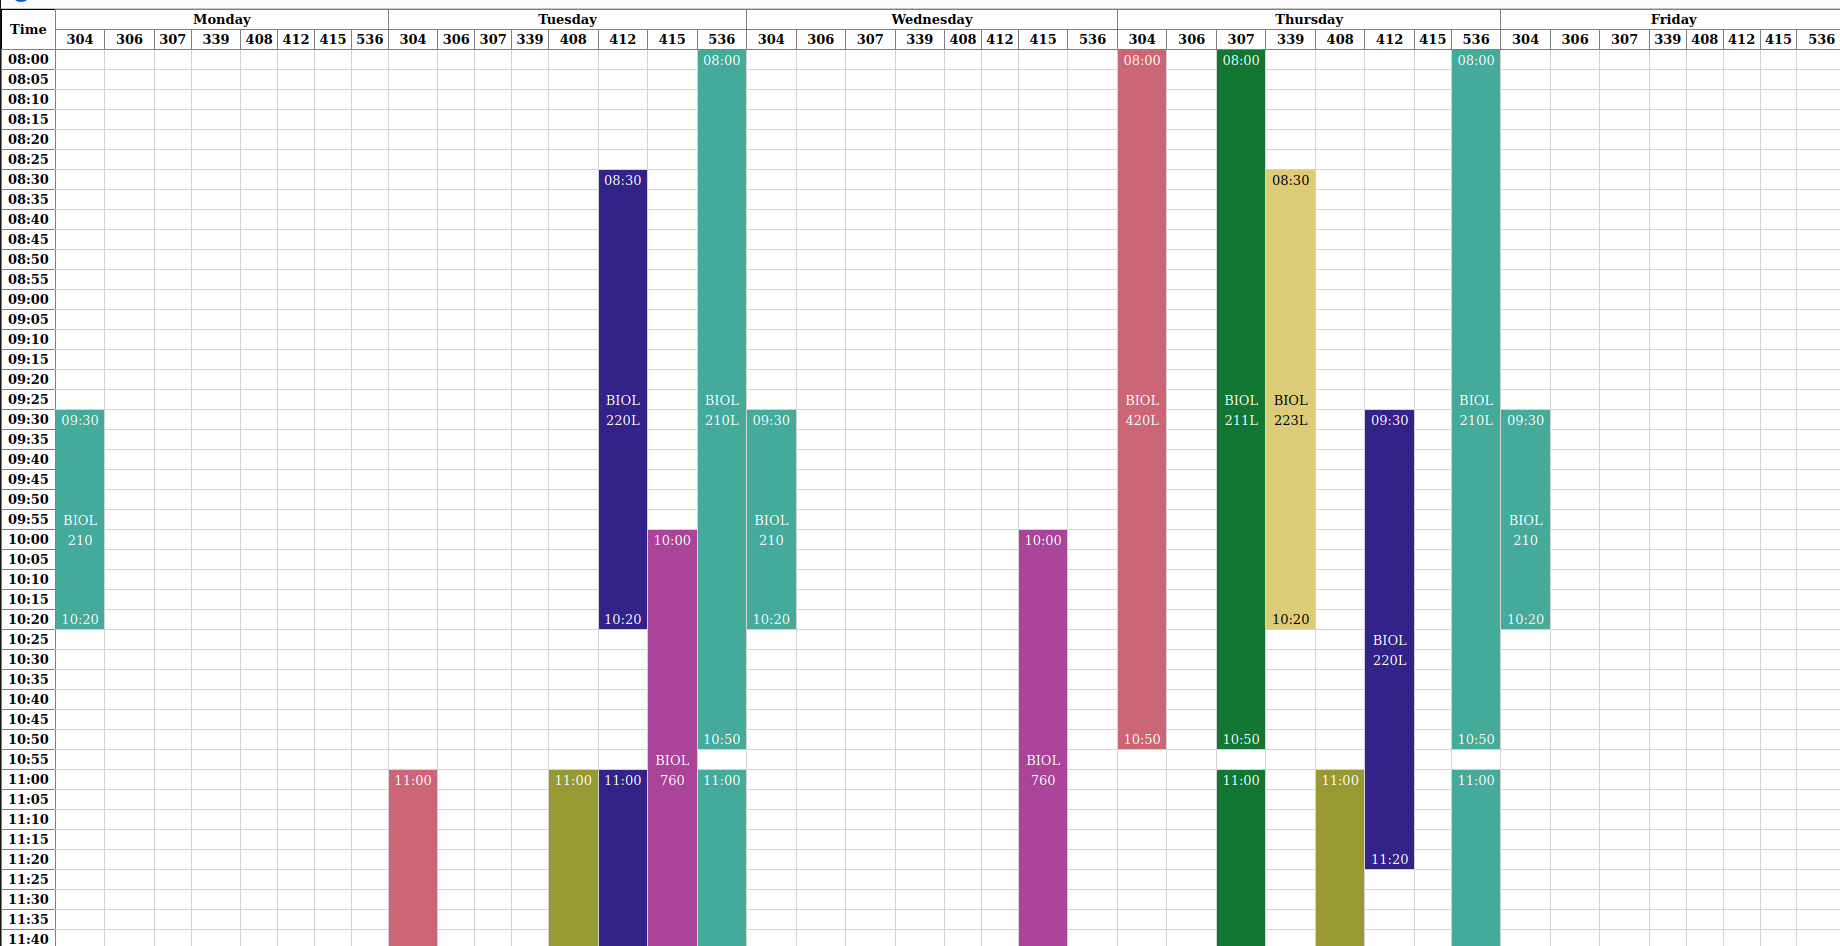
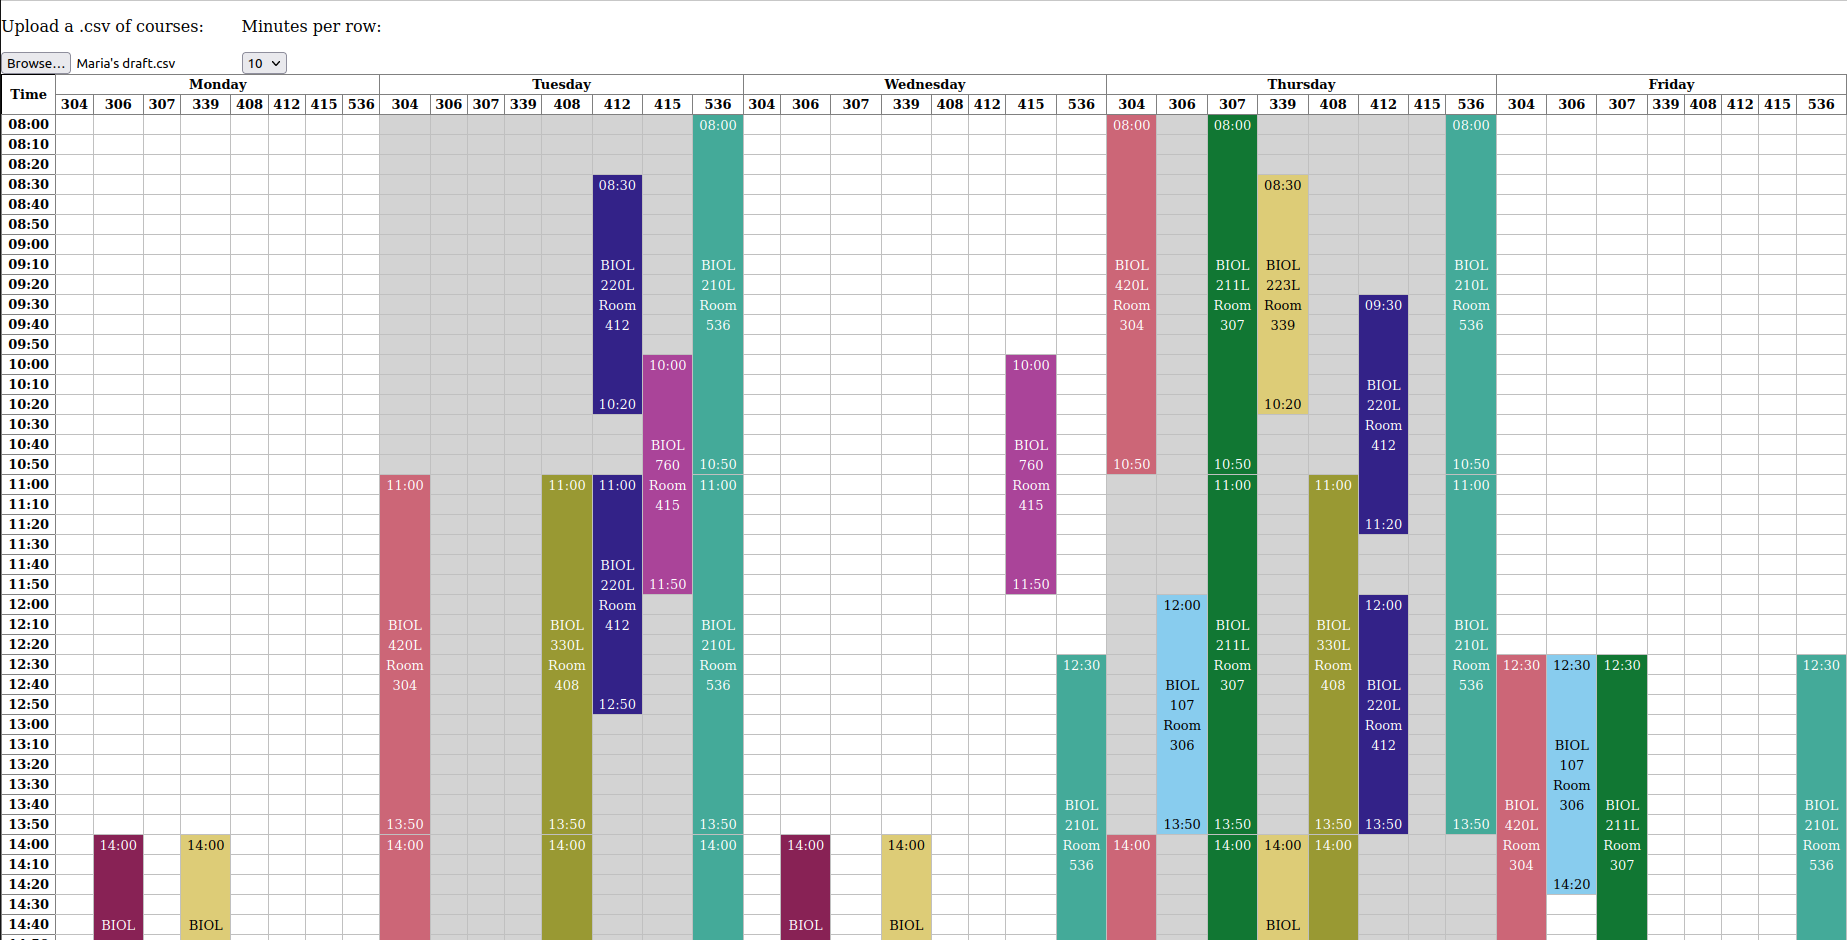
feat: Dropdown to change minutes per row

diff --git a/index.js b/index.js
@@ -2,6 +2,8 @@ const COLORS = ['#88CCEE', '#44AA99', '#117733', '#332288', '#DDCC77', '#999933'
 const WEEKDAYS = "MTWRF".split("");
 const WEEKDAY_LABELS = ["Monday", "Tuesday", "Wednesday", "Thursday", "Friday"]
 
+var MINUTES_PER_ROW = 10;
+
 const handleFileUpload = (event) => {
   if (event.target.files.length > 1) {
     alert("Only one file upload allowed at a time.");
@@ -21,6 +23,24 @@ const handleFileUpload = (event) => {
 
 document.getElementById('fileinput').addEventListener('change', handleFileUpload);
 
+const handleMinsPerRowChange = () => {
+  MINUTES_PER_ROW = parseInt(document.getElementById("minsPerRowSelect").value);
+
+  const uploadedFiles = document.getElementById("fileinput").files;
+  if (uploadedFiles.length < 1) {
+    return;
+  }
+
+  const file = uploadedFiles[0];
+  if (!file) {
+    return;
+  }
+
+  const reader = new FileReader();
+  reader.onload = parseAndRenderFile;
+  reader.readAsText(file);
+}
+
 const parseAndRenderFile = (event) => {
   const contents = event.target.result;
   const lines = contents.split("\n");
@@ -37,9 +57,6 @@ const parseAndRenderFile = (event) => {
   const calendarHtml = renderCalendarHtml(cleanData);
   const root = document.getElementById("root");
   root.innerHTML = calendarHtml;
-
-  // Remove the file upload input.
-  document.getElementById("fileinput").outerHTML = "";
 };
 
 const renderCalendarHtml = (data) => {
@@ -115,10 +132,9 @@ const getCellContents = (data, rooms) => {
 
   // One col for time, then for each room on each weekday.
   const numCols = 1 + WEEKDAYS.length * rooms.length;
-  const minutesPerRow = 5;
-  const numRows = (maxHour - minHour) * 60 / minutesPerRow;
+  const numRows = (maxHour - minHour) * 60 / MINUTES_PER_ROW;
   const timeForRow = (rowNum) => {
-    const t = minHour * 60 + rowNum * minutesPerRow;
+    const t = minHour * 60 + rowNum * MINUTES_PER_ROW;
     const h = String(parseInt(t / 60)).padStart(2, "0");
     const m = String(parseInt(t % 60)).padStart(2, "0");
     return `${h}:${m}`
@@ -166,8 +182,8 @@ const getCellContents = (data, rooms) => {
         + WEEKDAYS.indexOf(day) * rooms.length
         + rooms.indexOf(course.roomNumber)
       );
-      const firstRow = Math.trunc((startTime - minHour) * 60 / minutesPerRow);
-      const lastRow = Math.trunc((endTime - minHour) * 60 / minutesPerRow);
+      const firstRow = Math.trunc((startTime - minHour) * 60 / MINUTES_PER_ROW);
+      const lastRow = Math.trunc((endTime - minHour) * 60 / MINUTES_PER_ROW);
       const middleRow = Math.trunc((lastRow + firstRow) / 2);
 
       range(lastRow - firstRow + 1).forEach(i => {
@@ -181,14 +197,12 @@ const getCellContents = (data, rooms) => {
           currentCell.textContents += course.startTime;
           currentCell.cssClass = "courseTopCell";
         } else if (row === middleRow) {
-          const twoCellsBefore = cellsInGrid[row - 2][col];
-          twoCellsBefore.textContents += course.subject;
-          const previousCell = cellsInGrid[row - 1][col];
-          previousCell.textContents += course.number;
-          const middleCell = cellsInGrid[row][col];
-          middleCell.textContents += "Room";
-          const nextCell = cellsInGrid[row + 1][col];
-          nextCell.textContents += course.roomNumber;
+          const courseLabel = [course.subject, course.number, "Room", course.roomNumber];
+          courseLabel.forEach((textValue, index) => {
+            const rowOffset = -1;
+            const cellAtIndex = cellsInGrid[row + index + rowOffset][col];
+            cellAtIndex.textContents = textValue;
+          })
         } else if (row === lastRow) {
           currentCell.textContents += course.endTime;
           currentCell.cssClass = "courseBottomCell";

diff --git a/index.html b/index.html
@@ -7,7 +7,19 @@
     <link rel="stylesheet" href="index.css">
   </head>
   <body>
-    <input type="file" id="fileinput" />
+    <div class="noprint">
+      <div style="display:inline-block">
+        <p>Upload a .csv of courses:</p>
+        <input id="fileinput" type="file" />
+      </div>
+      <div style="display:inline-block">
+        <p>Minutes per row:</p>
+        <select id="minsPerRowSelect" onchange="handleMinsPerRowChange()">
+          <option value="5">5</option>
+          <option value="10" selected="selected">10</option>
+        </select>
+      </div>
+    </div>
     <div id="root"></div>
     <script src="./index.js"></script>
   </body>

diff --git a/index.css b/index.css
@@ -5,6 +5,15 @@ html, body, svg {
 }
 
 /*
+* Make it so some elements are omitted when printing.
+*/
+@media print{
+  .noprint{
+      display:none;
+  }
+}
+
+/*
 * Make it so background colors of table will print w/ ctrl + p.
 */
 body{

diff --git a/README.md b/README.md
@@ -4,29 +4,46 @@ Hi Mom!
 
 This is a tool to help you visualize courses and what rooms they're scheduled to occupy.
 
-## To Get the App
+- [How to get the app](#how-to-get-the-app)
+- [How to run the app](#how-to-run-the-app)
+- [How to use the app](#how-to-use-the-app)
+
+## How to get the app
 
 1. Click "Code" in the top right.
 1. Click "Download ZIP".
 1. Unzip the .zip file that you downloaded.
 1. You can now open the `index.html` file in the folder you unzipped to use the app (see below).
 
-## To Run the App
+## How to run the app
 
-1. Save a report from Excel in `.csv` file format.
+Once you have downloaded and unzipped the app somewhere on your machine:
+
 1. In your web browser, go to File > Open File and open `index.html` from the folder of unzipped files (see above).
+1. You should see a page that looks something like the following screenshot.
+
+![app-initial-ui](./screencaps/app-initial-ui.png)
+
+## How to use the app
+
+Once you have the app running in your browser:
+
+1. Save a report from Excel in *UTF-8* `.csv` file format (not Mac or Windows CSV format).
 1. You will see an interface to upload a file. Click "Browse..." and select the CSV you saved in step 1.
     1. It should look like this ![filebrowse-interface-screenshot](./screencaps/browse-interface.png)
 1. You should now see a visualization of the schedule broken down by room, something like the screencaps below.
-1. If you don't, call me and I'll fix it!
+    1. If you don't, call me and I'll fix it!
+1. Once you've uploaded a file, you can change the granularity of the rows from e.g. every 5 minutes to every 10 minutes with a dropdown that should look like this: ![mins-per-row-select](./screencaps/mins-per-row-select.png).
 
-Notes:
+### Notes on usage
+
+- You can use Ctrl + P to print the page. Only the course schedule visualization should be printed.
 - You don't need to remove columns from the report before saving as a `.csv`.
 - If you don't want to see a course, remove its row from your Excel sheet before saving as a `.csv`.
-    - The app will already filter out rooms that are not in building `HH`.
-    - The app will already filter out courses with status "Reserved".
-    - The app will already filter out courses with no start time, end time, or room number.
-- Uploading a file will remove the "Browse..." interface. I did this so you can Ctrl + P and print the result if you want. Reload the page (Ctrl + R) to restart.
+    - *The app will automatically filter out...*:
+        - Courses in rooms that are not in building `HH`.
+        - Courses with status "Reserved".
+        - Courses with no start time, end time, or room number.
 
 ## Screencaps
 
